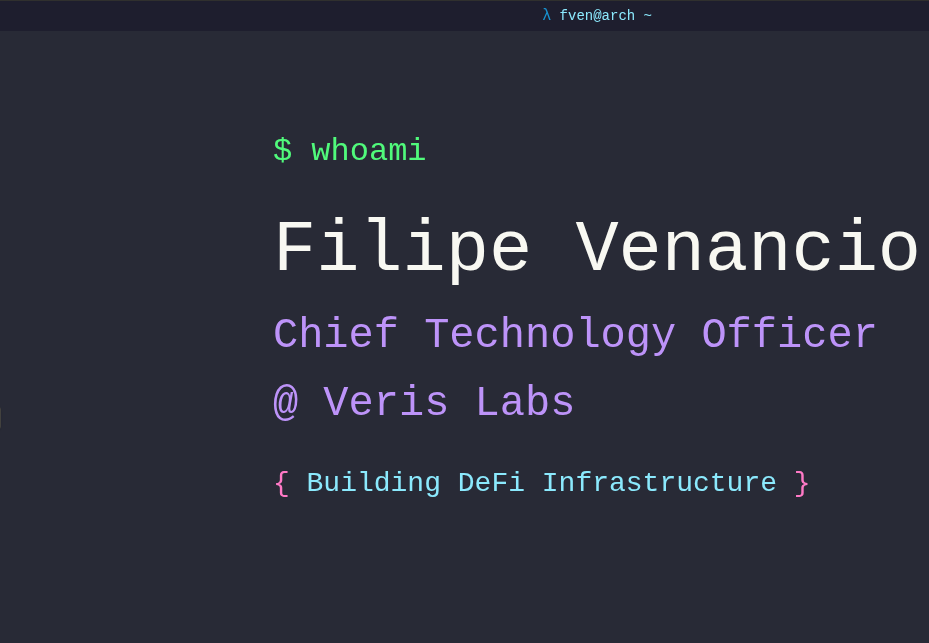
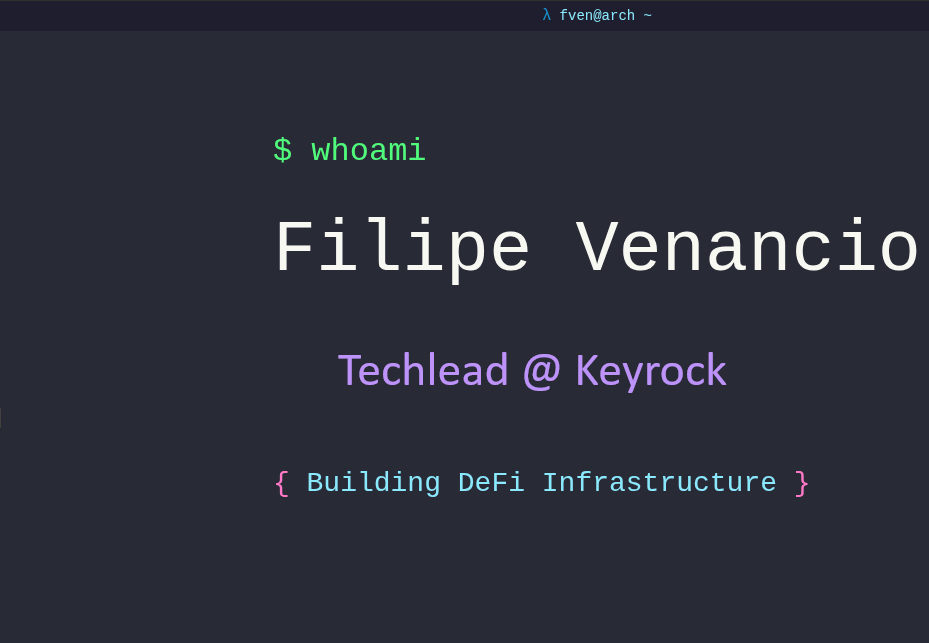
index upgraded

Changed region(s): [[0.2809, 0.4977, 0.9365, 0.6532]]

diff --git a/index.html b/index.html
@@ -16,7 +16,7 @@
     <!-- Twitter -->
     <meta name="twitter:card" content="summary_large_image">
     <meta name="twitter:url" content="https://fven.xyz/">
-    <meta name="twitter:title" content="Filipe Venancio | DeFi CTO">
+    <meta name="twitter:title" content="Filipe Venancio | DeFi Techlead">
     <meta name="twitter:description" content="Technology Leader Building DeFi Infrastructure | Techlead @ keyrock">
     <meta name="twitter:image" content="https://fven.xyz/fven-image.png">
     
